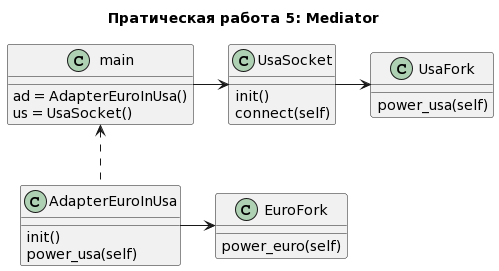
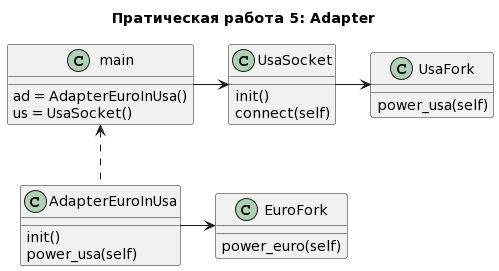
new

Changed region(s): [[0.2104, 0.0295, 0.7515, 0.0886]]

diff --git a/lab5/readme.md b/lab5/readme.md
@@ -469,7 +469,7 @@ burger.printer()
 ### Код программы для диаграммы паттерна Адаптер
 ```
 @startuml
-title Пратическая работа 5: Mediator
+title Пратическая работа 5: Adapter
 
 class main{
 ad = AdapterEuroInUsa()
